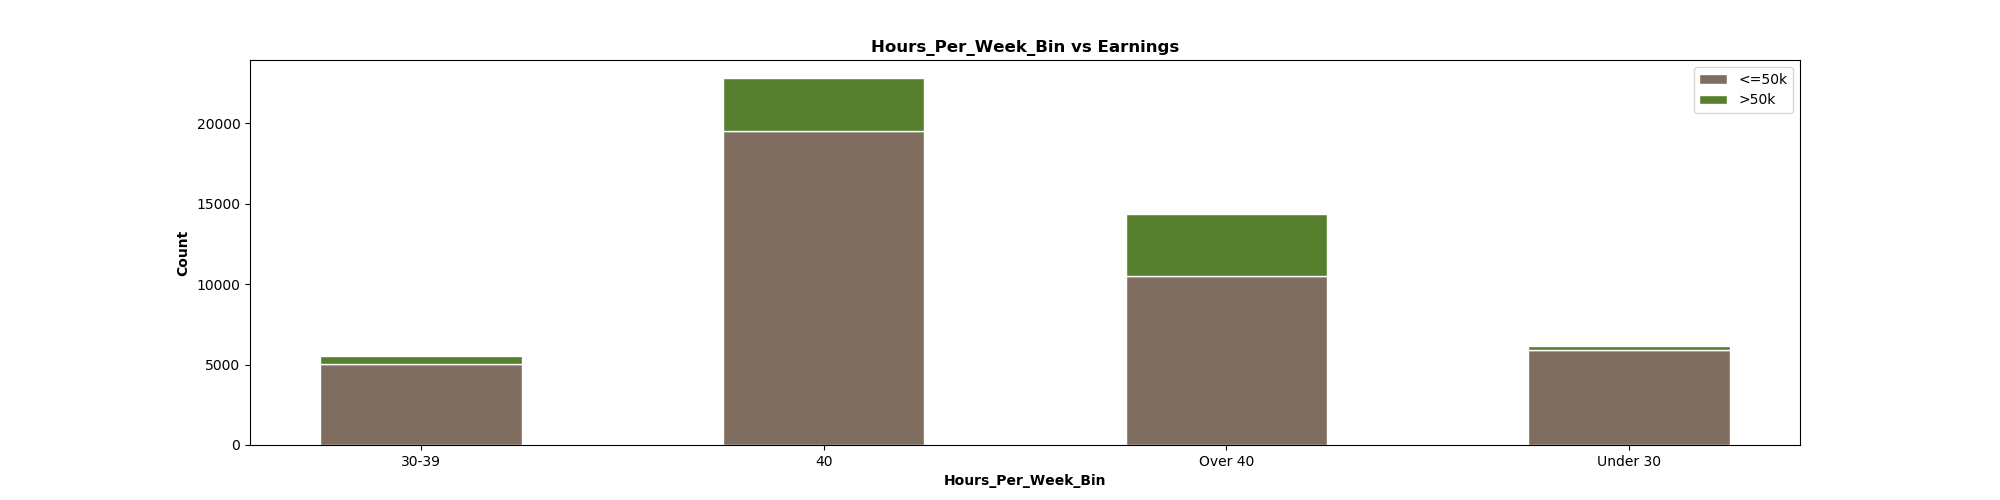
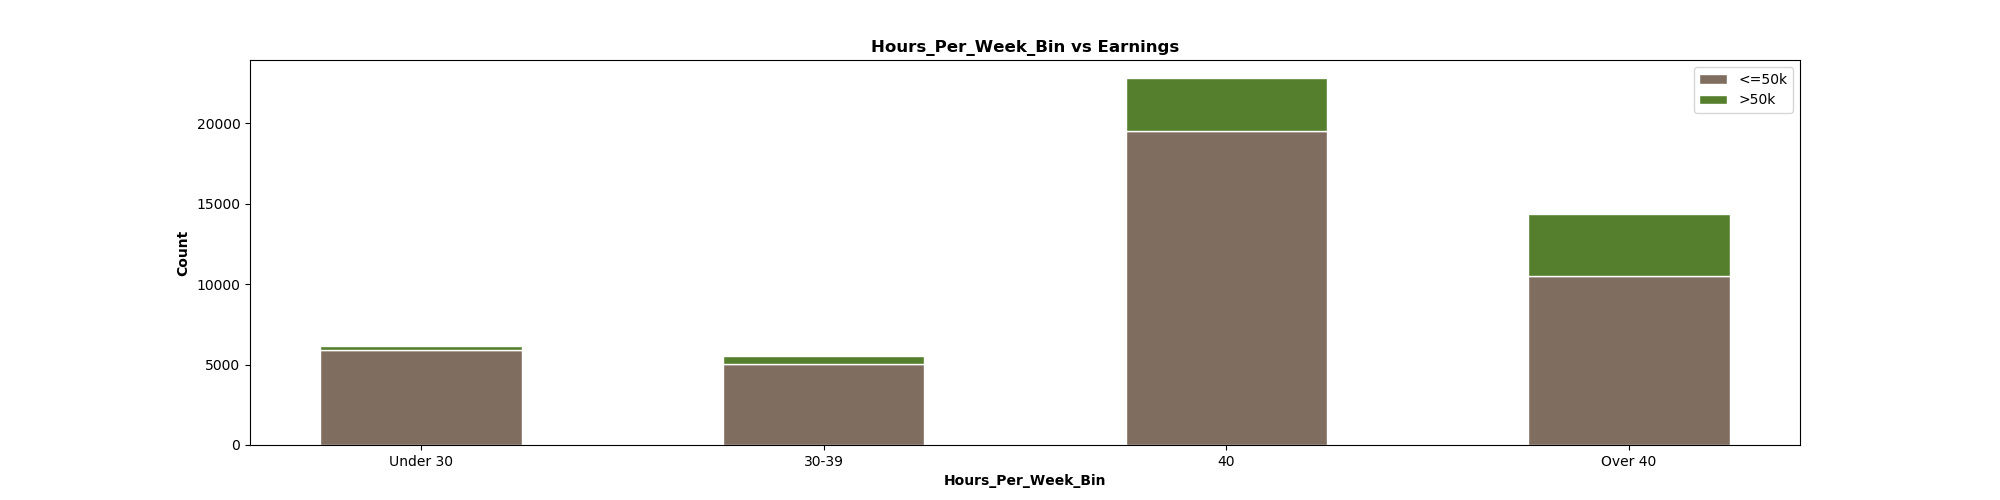
Better way of binning ages and hours worked

diff --git a/visualizations.py b/visualizations.py
@@ -26,10 +26,8 @@ def load_data():
     #set some calculated fields
     all_data['Below_50k'] = all_data['Salarys'].apply(lambda x: False if x == ' >50K' else True)
     all_data['From_USA'] = all_data['NTVCTRY'].apply(lambda x: True if x == ' United-States' else False)
-    all_data['Age_Bin'] = np.select([all_data['Age'] < 20, all_data['Age'] < 30, all_data['Age'] < 40, all_data['Age'] < 50, all_data['Age'] < 60, all_data['Age'] < 70, True],
-                                       ['17-19', '20-29', '30-39', '40-49', '50-59', '60-69', '70-90'])
-    all_data['Hours_Per_Week_Bin'] = np.select([all_data['HRSPERWK'] < 30, all_data['HRSPERWK'] < 40, all_data['HRSPERWK'] == 40, True],
-                                       ['Under 30', '30-39', '40', 'Over 40'])
+    all_data['Age_Bin'] = pd.cut(all_data['Age'],bins=[0,19,29,39,49,59,69,120], labels=['17-19', '20-29', '30-39', '40-49', '50-59', '60-69', '70-90'])
+    all_data['Hours_Per_Week_Bin'] = pd.cut(all_data['HRSPERWK'], bins=[0,29,39,40,100], labels=['Under 30', '30-39', '40', 'Over 40'])
     return all_data
 
 def generateVsEarningsStackedBarChart(df, columnName, figSizeWidth = 20, figSizeLength = 5, barWidth = 0.5,  xticksRotation = None):
